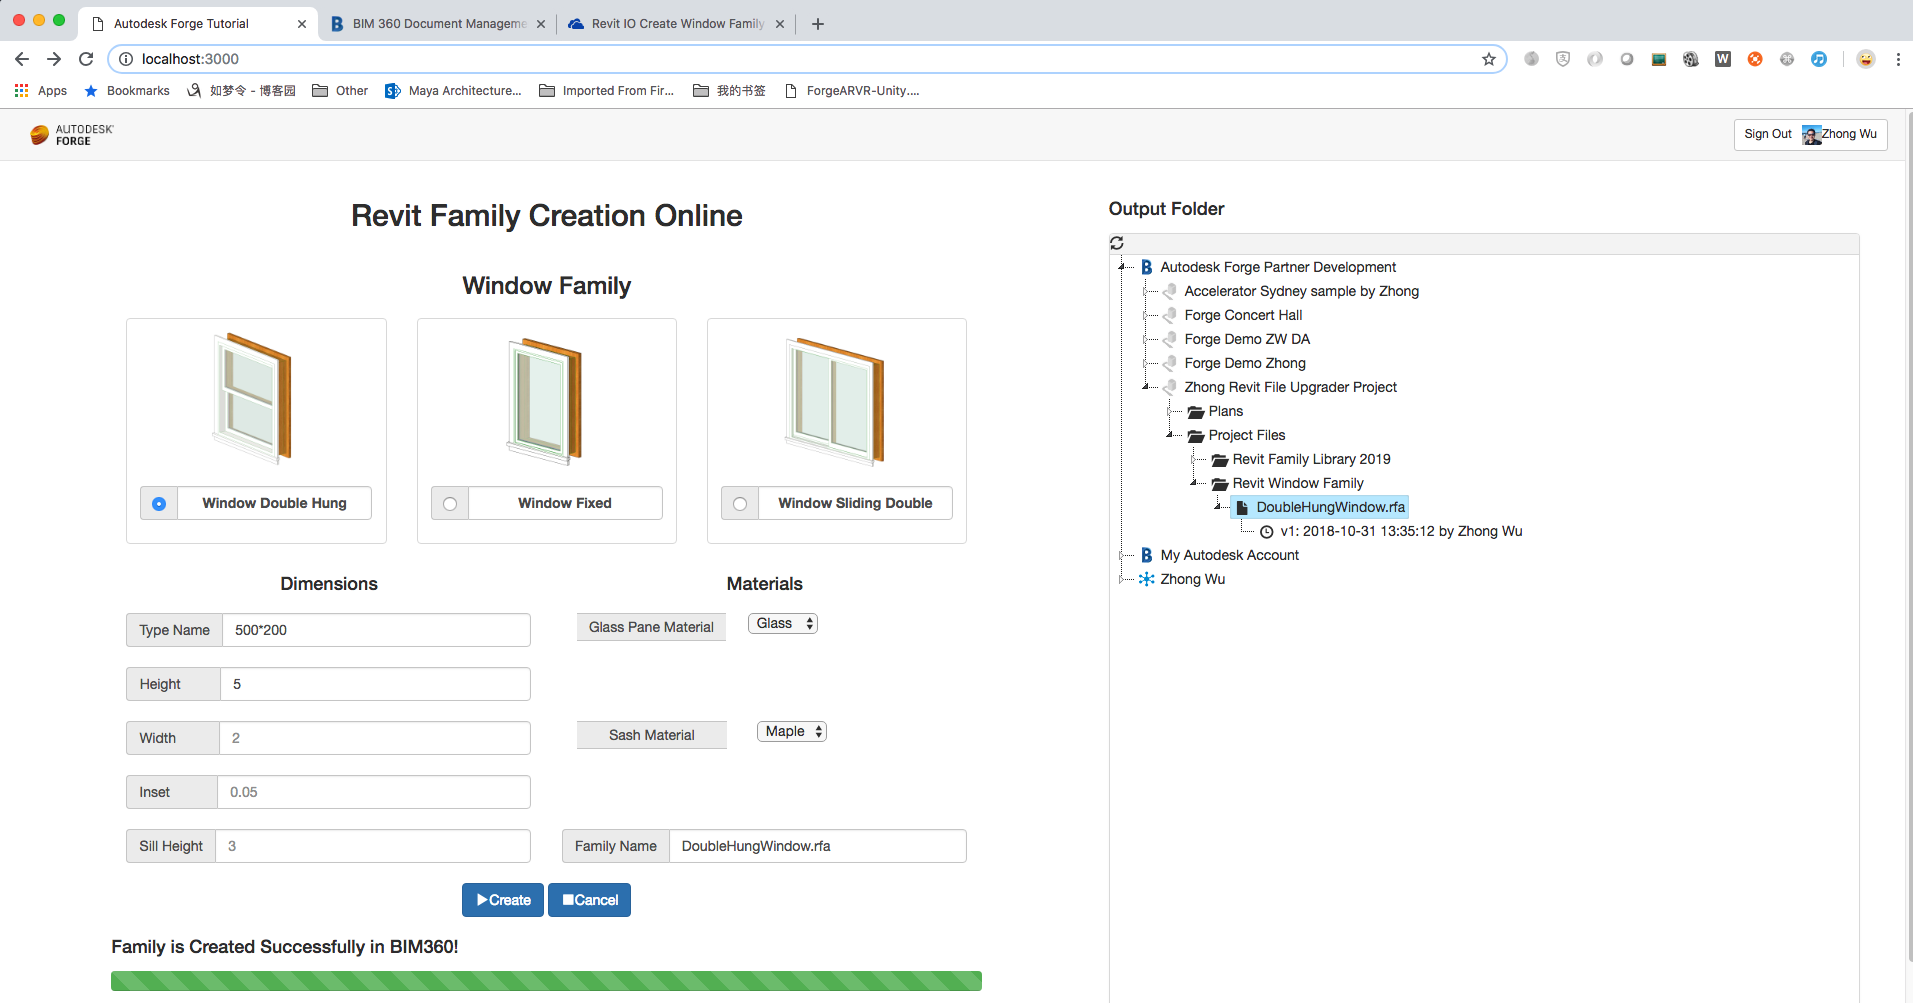
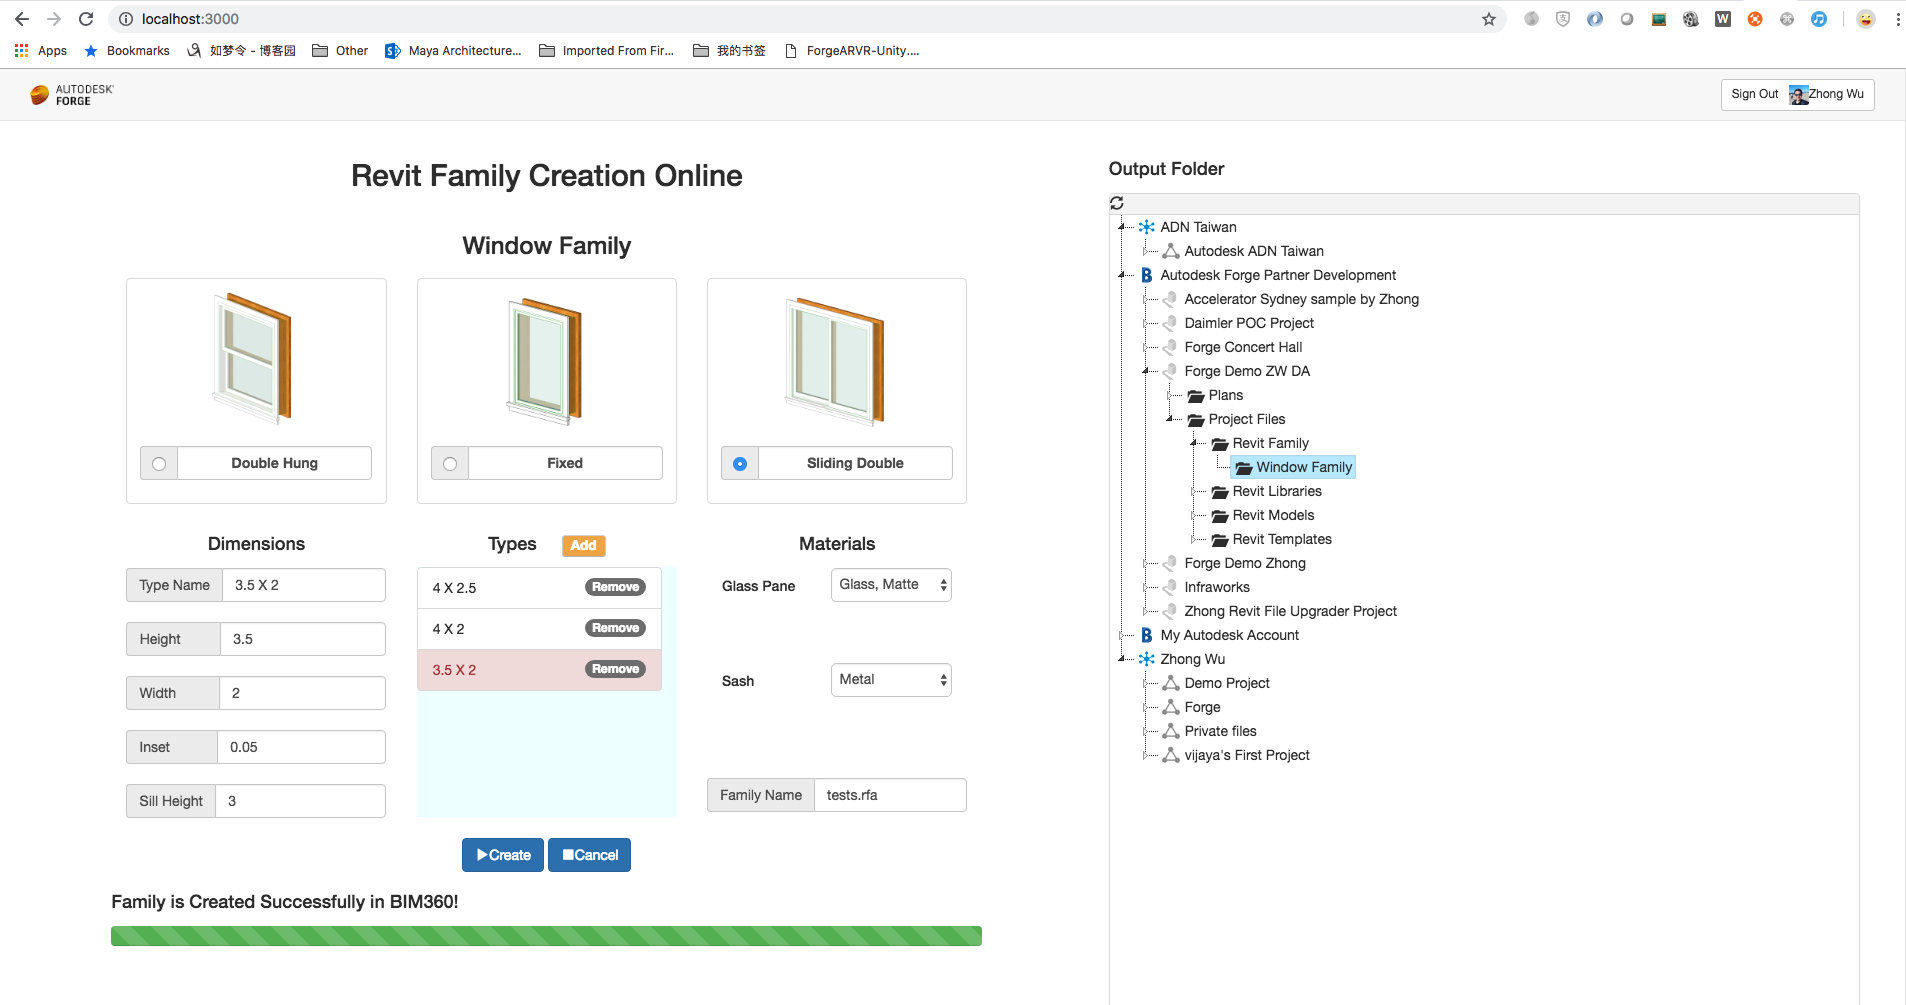
update code

diff --git a/public/index.html b/public/index.html
@@ -166,7 +166,7 @@
                             <select id="glassPaneMaterialSelId" class="form-control">
                               <option>Default</option>
                               <option>Glass</option>
-                              <option>Maple</option>
+                              <option>Glass, Matte</option>
                             </select>
                           </div>
                         </div>
@@ -181,7 +181,9 @@
                           <div class="col-sm-7">
                             <select id="sashMaterialSelId" class="form-control">
                               <option>Default</option>
-                              <option>Glass</option>
+                              <option>Metal</option>
+                              <option>Copper</option>
+                              <option>Gold</option>
                               <option>Maple</option>
                             </select>
                           </div>

diff --git a/config.js b/config.js
@@ -37,13 +37,12 @@ module.exports = {
     designAutomation:{
         callback_Url: process.env.FORGE_WORK_ITEM_CALLBACK_URL,
         // Window family template, please change to your template URL
-        revit_family_template : 'https://developer.api.autodesk.com/oss/v2/buckets/revitiosample/objects/windowNewFamily.rft',
+        revit_family_template : 'https://developer.api.autodesk.com/oss/v2/buckets/revitiosample/objects/myWindowFamily.rft',
         revit_IO_Endpoint: 'https://developer.api.autodesk.com/da/us-east/v3/',
         revit_IO_Nick_Name: 'revitiosample',
         revit_IO_App_Name: 'CreateWindowFamilyApp+prod',
         revit_IO_Activity_Name: 'CreateWindowFamilyActivity+prod',
         bim360_Item_Type : 'items:autodesk.bim360:File',
         bim360_Version_Type : 'versions:autodesk.bim360:File'
-
     }
 };

diff --git a/CreateWindow/README.md b/CreateWindow/README.md
@@ -169,7 +169,7 @@ Here is the main steps to migrate the Revit addin, before read the detail steps,
         }
 ```
 
-- Step: Update the method **WindowWizard.RunWizard()** as follow to use the different way for parameter collection:
+- Update the method **WindowWizard.RunWizard()** as follow to use the different way for parameter collection:
 ```
         public bool RunWizard()
         {
